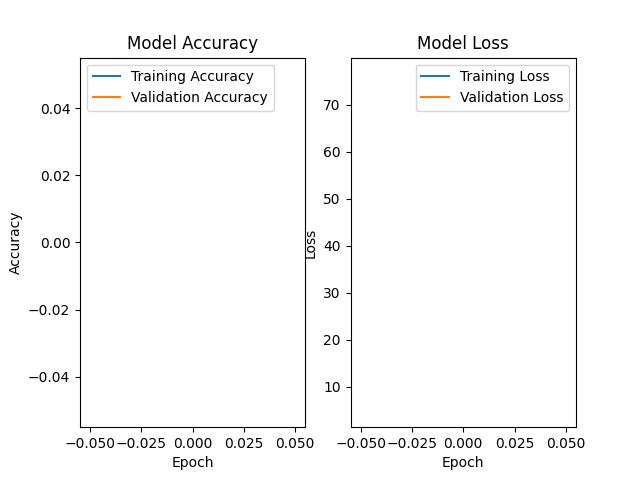
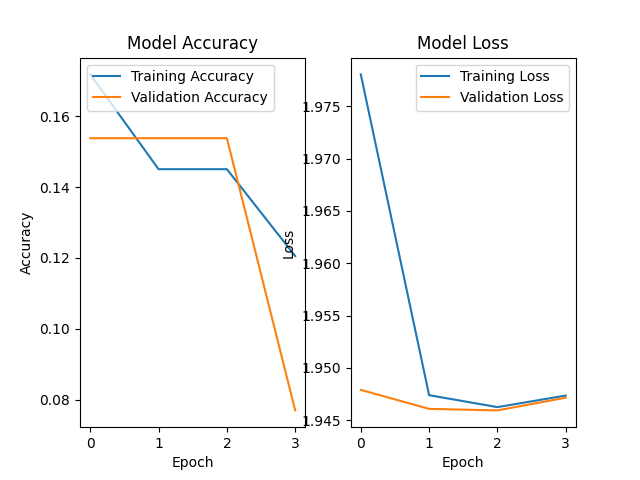
Begining of new CNN implementations

diff --git a/AmpliVision/src/ML/models.py b/AmpliVision/src/ML/models.py
@@ -130,5 +130,272 @@ class LENET(workflow):
         model.summary()
         self.model = model  
 
-
 # You can implement other models bellow based on the LENET model class
+
+# Basic Architectures:
+# AlexNet
+class ALEXNET(workflow):
+    def __init__( 
+            self,
+            TARGETS,
+            path_to_imgs,
+            scanned_path,
+            SIZE,
+            BATCH_N,
+            EPOCHS,
+            BLACK = False,
+            TAG = "_",
+            **kwargs
+        ):
+        self.model_name = 'ALEXNET'
+        self.id_str = TAG
+        
+        SIZE = (227, 227)  # AlexNet standard input size
+
+        super().__init__(TARGETS, path_to_imgs, scanned_path, SIZE, BATCH_N, EPOCHS, BLACK) 
+        #f"{kwargs['TARGET_NAME']}{self.model_name}_Sz{self.SIZE}_Bn{self.BATCH_N}_Ep{self.EPOCHS}{'_BLACK' if self.BLACK else ''}"
+        self.MLU = ML_Utils(path_to_imgs, scanned_path, self.id_str)
+
+
+    def build_model(self):
+        model = tf.keras.Sequential()
+    
+        #  Convolutional 11x11 kernel, 4 stride, 96 filters
+        model.add(tf.keras.layers.Conv2D(
+            filters=96, 
+            kernel_size=(11, 11), 
+            strides=(4,4),
+            activation='relu', 
+            input_shape=tuple([self.SIZE[0], self.SIZE[1], 3]))
+        )
+        model.add(tf.keras.layers.MaxPool2D((3, 3), strides=(2,2)))
+
+        # Convolutional 5x5 kernel, 1 stride, 256 filters
+        model.add(tf.keras.layers.Conv2D(
+            filters=256, 
+            kernel_size=(5, 5),
+            strides=(1,1),
+            activation='relu'),
+            #padding='same' # same size as previous layer
+        )
+        model.add(tf.keras.layers.MaxPooling2D((3, 3), strides=(2,2)))
+
+        # Convolutional 3x3 kernel, 1 stride, 384 filters
+        model.add(tf.keras.layers.Conv2D(
+            filters=384, 
+            kernel_size=(3, 3), 
+            strides=(1, 1), 
+            activation='relu', 
+            #padding='same'
+        ))
+
+        model.add(tf.keras.layers.Conv2D(
+            filters=384, 
+            kernel_size=(3, 3), 
+            strides=(1, 1), 
+            activation='relu', 
+            #padding='same'
+        ))
+
+        model.add(tf.keras.layers.Conv2D(
+            filters=256, 
+            kernel_size=(3, 3), 
+            strides=(1, 1), 
+            activation='relu', 
+            #padding='same'
+        ))
+        model.add(tf.keras.layers.MaxPool2D(pool_size=(3, 3), strides=(2, 2)))
+        
+        
+        model.add(tf.keras.layers.Flatten())
+
+        model.add(tf.keras.layers.Dense(units=4096, activation='relu'))
+        model.add(tf.keras.layers.Dropout(0.5))
+
+        model.add(tf.keras.layers.Dense(units=4096, activation='relu'))
+        model.add(tf.keras.layers.Dropout(0.5))
+
+        model.add(tf.keras.layers.Dense(units=len(self.TARGETS), activation = 'softmax'))
+        
+        model.compile(
+            optimizer = "adam", #tf.keras.optimizers.Adam(learning_rate=0.001),
+            loss = 'categorical_crossentropy',
+            metrics = [
+                'accuracy', 
+                'AUC',
+                tfa.metrics.F1Score(num_classes=len(self.TARGETS), average="macro")
+            ]
+        )
+        model.summary()
+        self.model = model  
+
+# VGG16
+class VGG16(workflow):
+    def __init__( 
+            self,
+            TARGETS,
+            path_to_imgs,
+            scanned_path,
+            SIZE,
+            BATCH_N,
+            EPOCHS,
+            BLACK = False,
+            TAG = "_",
+            **kwargs
+        ):
+        self.model_name = 'VGG16'
+        self.id_str = TAG
+
+        SIZE = (224, 224)  # VGG16 standard input size
+
+        # Initialize the base class with common parameters
+        super().__init__(TARGETS, path_to_imgs, scanned_path, SIZE, BATCH_N, EPOCHS, BLACK) 
+        
+        # Initialize ML_Utils assuming it handles data loading/processing
+        self.MLU = ML_Utils(path_to_imgs, scanned_path, self.id_str)
+
+
+    def build_model(self):
+        # NOTE ON INPUT SIZE: VGG16 is typically designed for 224x224x3 images.
+        # This implementation uses self.SIZE for the input_shape.
+        
+        model = tf.keras.Sequential()
+        
+        # --- BLOCK 1: 2x Conv (64 filters) + MaxPool ---
+        model.add(tf.keras.layers.Conv2D(
+            filters=64, 
+            kernel_size=(3, 3), 
+            activation='relu', 
+            padding='same',
+            input_shape=tuple([self.SIZE[0], self.SIZE[1], 3])
+        ))
+        model.add(tf.keras.layers.Conv2D(
+            filters=64, 
+            kernel_size=(3, 3), 
+            activation='relu', 
+            padding='same'
+        ))
+        model.add(tf.keras.layers.MaxPool2D(pool_size=(2, 2), strides=(2, 2)))
+
+        # --- BLOCK 2: 2x Conv (128 filters) + MaxPool ---
+        model.add(tf.keras.layers.Conv2D(
+            filters=128, 
+            kernel_size=(3, 3), 
+            activation='relu', 
+            padding='same'
+        ))
+        model.add(tf.keras.layers.Conv2D(
+            filters=128, 
+            kernel_size=(3, 3), 
+            activation='relu', 
+            padding='same'
+        ))
+        model.add(tf.keras.layers.MaxPool2D(pool_size=(2, 2), strides=(2, 2)))
+
+        # --- BLOCK 3: 3x Conv (256 filters) + MaxPool ---
+        model.add(tf.keras.layers.Conv2D(
+            filters=256, 
+            kernel_size=(3, 3), 
+            activation='relu', 
+            padding='same'
+        ))
+        model.add(tf.keras.layers.Conv2D(
+            filters=256, 
+            kernel_size=(3, 3), 
+            activation='relu', 
+            padding='same'
+        ))
+        model.add(tf.keras.layers.Conv2D(
+            filters=256, 
+            kernel_size=(3, 3), 
+            activation='relu', 
+            padding='same'
+        ))
+        model.add(tf.keras.layers.MaxPool2D(pool_size=(2, 2), strides=(2, 2)))
+
+        # --- BLOCK 4: 3x Conv (512 filters) + MaxPool ---
+        model.add(tf.keras.layers.Conv2D(
+            filters=512, 
+            kernel_size=(3, 3), 
+            activation='relu', 
+            padding='same'
+        ))
+        model.add(tf.keras.layers.Conv2D(
+            filters=512, 
+            kernel_size=(3, 3), 
+            activation='relu', 
+            padding='same'
+        ))
+        model.add(tf.keras.layers.Conv2D(
+            filters=512, 
+            kernel_size=(3, 3), 
+            activation='relu', 
+            padding='same'
+        ))
+        model.add(tf.keras.layers.MaxPool2D(pool_size=(2, 2), strides=(2, 2)))
+
+        # --- BLOCK 5: 3x Conv (512 filters) + MaxPool ---
+        model.add(tf.keras.layers.Conv2D(
+            filters=512, 
+            kernel_size=(3, 3), 
+            activation='relu', 
+            padding='same'
+        ))
+        model.add(tf.keras.layers.Conv2D(
+            filters=512, 
+            kernel_size=(3, 3), 
+            activation='relu', 
+            padding='same'
+        ))
+        model.add(tf.keras.layers.Conv2D(
+            filters=512, 
+            kernel_size=(3, 3), 
+            activation='relu', 
+            padding='same'
+        ))
+        model.add(tf.keras.layers.MaxPool2D(pool_size=(2, 2), strides=(2, 2)))
+
+        # --- Fully Connected Layers ---
+        model.add(tf.keras.layers.Flatten())
+        
+        # FC-1: 4096 neurons
+        model.add(tf.keras.layers.Dense(units=4096, activation='relu'))
+        model.add(tf.keras.layers.Dropout(0.5)) 
+
+        # FC-2: 4096 neurons
+        model.add(tf.keras.layers.Dense(units=4096, activation='relu'))
+        model.add(tf.keras.layers.Dropout(0.5)) 
+
+        # Output Layer: num_classes neurons
+        model.add(tf.keras.layers.Dense(units=len(self.TARGETS), activation = 'softmax'))
+        
+        # Compile the model using the standard metrics
+        model.compile(
+            optimizer = "adam", 
+            loss = 'categorical_crossentropy',
+            metrics = [
+                'accuracy', 
+                'AUC',
+                tfa.metrics.F1Score(num_classes=len(self.TARGETS), average="macro")
+            ]
+        )
+        
+        model.summary()
+        self.model = model
+
+# Inception V1-V4
+
+# Residual Learning:
+# ResNet
+
+# Portable Attention based:
+# Senet
+# EfficientNet
+# RegNet
+# CA
+
+# Mobile Architectures:
+# MobileNet V1-V3
+# ShuffleNet V1-V2
+# MnasNet
+

diff --git a/AmpliVision/__main__.py b/AmpliVision/__main__.py
@@ -37,7 +37,7 @@ def main(
 
     print(f" --- Running {use_case} --- ")
 
-    match use_case.upper():
+    match use_case.upper().split('-')[0]:
 
         # Scans AMPLI test images and extracts results
         case 'SCAN':
@@ -48,14 +48,21 @@ def main(
             ).prepare_image_RBGen()
         
         # Trains LENET model using generated images
-        case 'LENET':
+        case 'TRAIN':
             """ Train a CNN model using the LENET architecture to predict Ampli test diagnostics """
+
+            model_type = use_case.upper().split('-')[1] if '-' in use_case else 'LENET'
+
+            model_class = getattr(models, model_type, None)
+            if model_class == None:
+                print(f"Model {model_type} not found, defaulting to LENET")
+                model_class = models.LENET
 
             kwargs = {  
                 "tag": TAG,
             }
 
-            models.LENET(
+            model_class(
                 TARGETS,
                 path_to_imgs,
                 scanned_path,

diff --git a/readme.md b/readme.md
@@ -8,7 +8,7 @@ AmpliVision is an open source program designed to Automate AMPLI rapid test work
 - [Usage](#usage)
 - [Pre-Defined Use Cases](#pre-defined-use-cases)
   - [Scan AMPLI test images and extract results](#scan-ampli-test-images-and-extract-results)
-  - [Train a CNN LENET model to classify AMPLI test images](#train-a-cnn-lenet-model-to-clasify-ampli-test-images)
+  - [Train a CNN model to classify AMPLI test images](#train-a-cnn-model-to-clasify-ampli-test-images)
   - [Detect Outliers With Trained Model And PyOD](#detect-outliers-with-trained-model-and-pyod)
   - [Test a trained CNN model in Predicting Never Seen AMPLI tests](#test-a-trained-cnn-model-in-predicting-never-seen-ampli-tests)
   - [Visualize Generated Data in Jupyter Notebook](#visualize-generated-data-in-jupyter-notebook)
@@ -50,7 +50,7 @@ Python AmpliVision USE_CASE DATASET TAG*
     -
     CORE
     - [SCAN](#scan-ampli-test-images-and-extract-results)
-    - [LENET](#train-a-cnn-lenet-model-to-clasify-ampli-test-images)
+    - [TRAIN-[MODEL]](#train-a-cnn-model-to-clasify-ampli-test-images)
     - [PyOD](#detect-outliers-with-trained-model-and-pyod)
     ___
     EXTRA
@@ -79,10 +79,17 @@ Example command to scan and extract MARKER data. The scanned images will be in [
 ``` bash
 Python AmpliVision scan MARKER My_Identifiable_TAG
 ```
-### Train a CNN LENET model to clasify Ampli test images
+### Train a CNN model to clasify Ampli test images
 ``` python
-python3 AmpliVision LENET scanned_MARKER MARKER
+python3 AmpliVision TRAIN-[MODEL] scanned_MARKER MARKER
 ```
+Example shows train functionality with a LENET model
+``` python
+python3 AmpliVision TRAIN-LENET scanned_MARKER MARKER
+```
+Supported models are:
+- LENET
+- ALEXNET
 
 ### Detect Outliers With Trained Model And PyOD
 ``` python